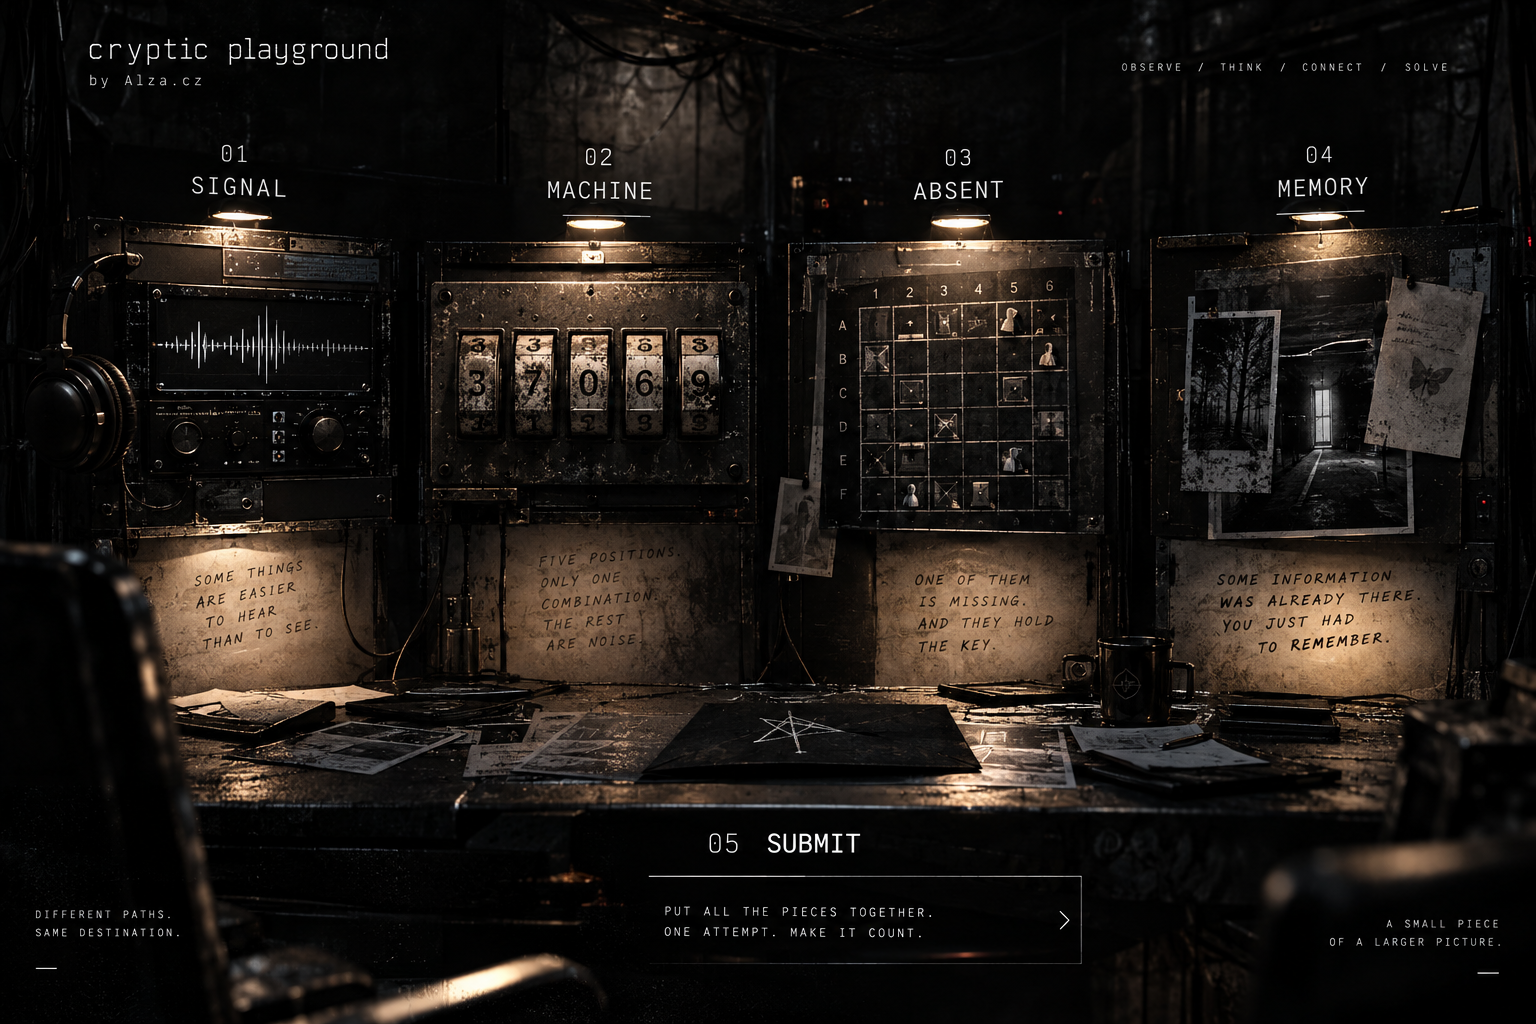
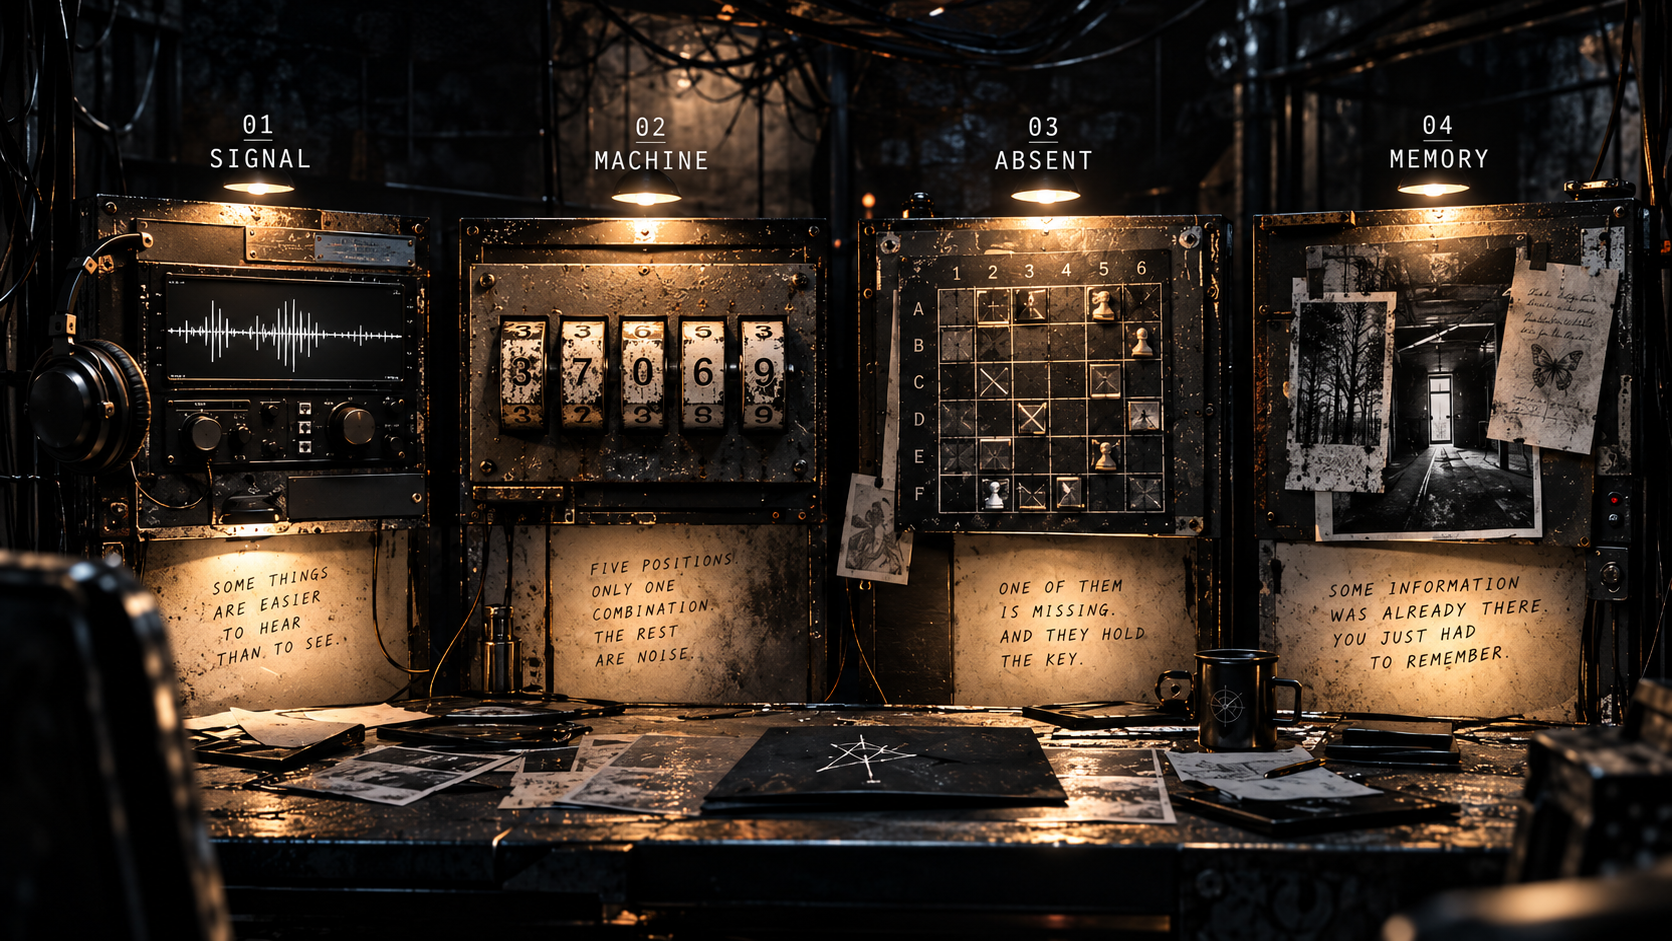
úprava vobrázku

diff --git a/assets/styles.css b/assets/styles.css
@@ -39,19 +39,57 @@ button,input{font:inherit}
   display:block;
   width:100%;
   height:auto;
-  aspect-ratio:1536/1024;
+  aspect-ratio:1672/941;
   object-fit:cover;
   object-position:center;
-  filter:grayscale(1) brightness(.66) contrast(1.04);
+  filter:grayscale(.90) brightness(.96) contrast(1.14);
+  transform:scale(1.005);
 }
 .hero-shade{
   position:absolute;
   inset:0;
   pointer-events:none;
+  z-index:1;
   background:
-    linear-gradient(180deg,rgba(5,5,5,.08) 0%,rgba(5,5,5,.02) 48%,rgba(5,5,5,.70) 100%),
-    linear-gradient(90deg,rgba(5,5,5,.30) 0%,transparent 34%,transparent 72%,rgba(5,5,5,.18) 100%);
+    linear-gradient(180deg,rgba(5,5,5,.015) 0%,rgba(5,5,5,.005) 52%,rgba(5,5,5,.34) 100%),
+    linear-gradient(90deg,rgba(5,5,5,.08) 0%,transparent 30%,transparent 74%,rgba(5,5,5,.05) 100%);
 }
+.hero::after{
+  content:"";
+  position:absolute;
+  inset:0;
+  pointer-events:none;
+  z-index:1;
+  background:
+    radial-gradient(circle at 15% 20%, rgba(255,211,145,.075), transparent 9%),
+    radial-gradient(circle at 39% 20%, rgba(255,211,145,.085), transparent 8.5%),
+    radial-gradient(circle at 62% 20%, rgba(255,211,145,.085), transparent 8.5%),
+    radial-gradient(circle at 86% 20%, rgba(255,211,145,.075), transparent 9%);
+  mix-blend-mode:screen;
+  opacity:.54;
+  animation:heroFlicker 5.7s infinite steps(1);
+}
+
+@keyframes heroFlicker{
+  0%,100%{opacity:.52}
+  12%{opacity:.59}
+  13%{opacity:.48}
+  14%{opacity:.61}
+  37%{opacity:.55}
+  38%{opacity:.63}
+  39%{opacity:.50}
+  66%{opacity:.57}
+  67%{opacity:.46}
+  68%{opacity:.60}
+  83%{opacity:.54}
+  84%{opacity:.62}
+  85%{opacity:.51}
+}
+
+@media (prefers-reduced-motion: reduce){
+  .hero::after{animation:none}
+}
+
 .hero-caption{
   position:absolute;
   z-index:2;
@@ -223,6 +261,7 @@ img{max-width:100%}
     aspect-ratio:auto;
     object-fit:contain;
     object-position:center;
+    transform:none;
   }
   .hero-shade{
     height:auto;
